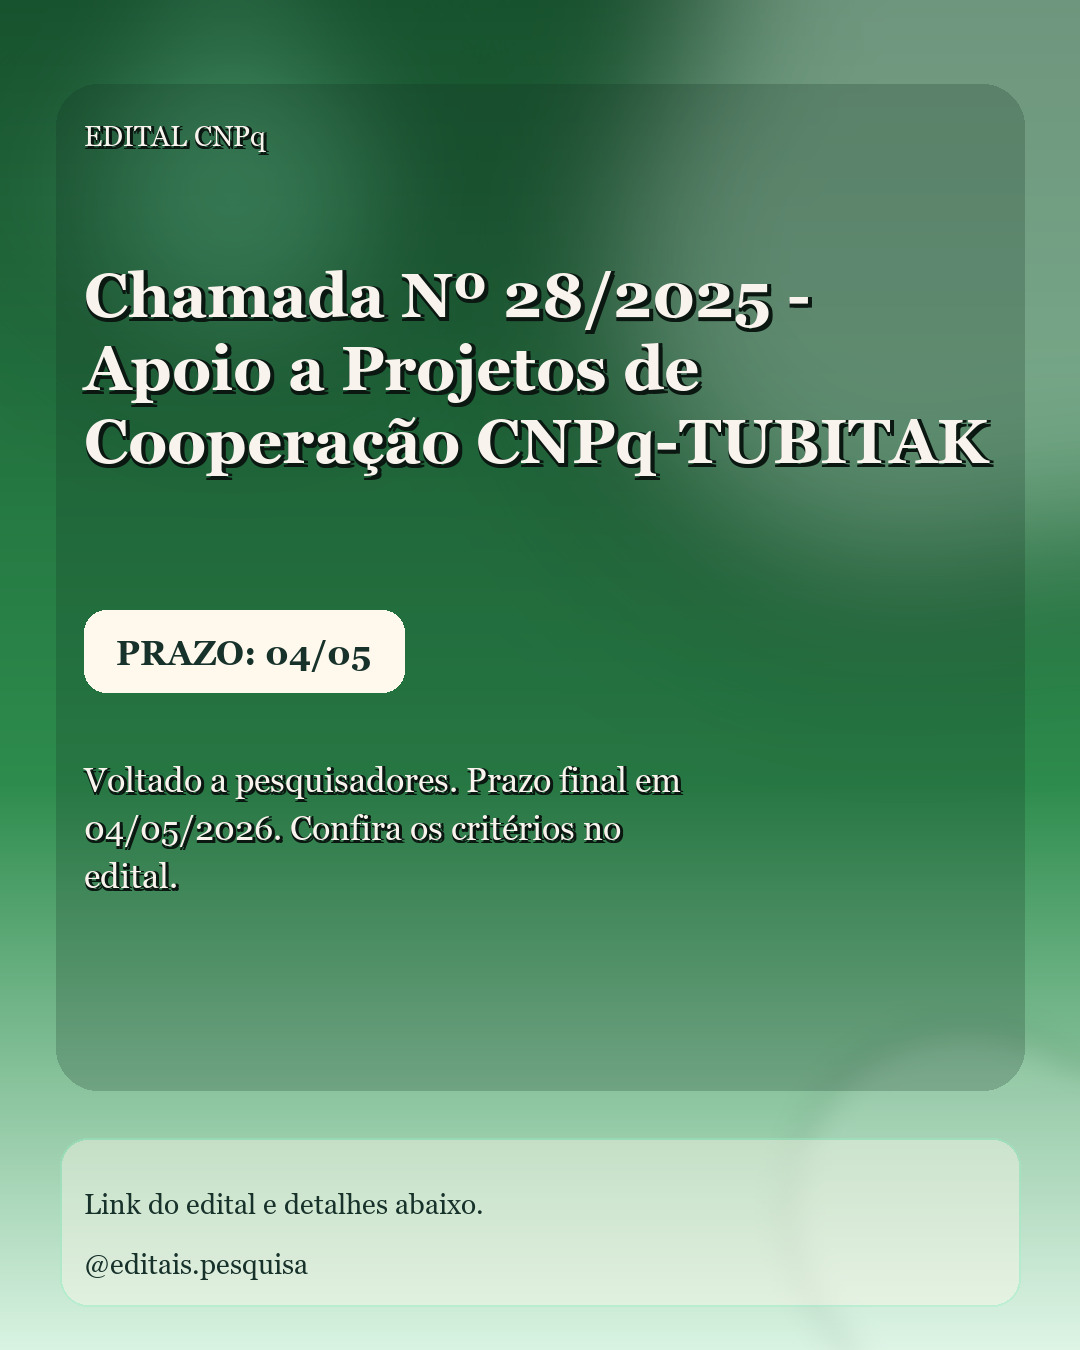
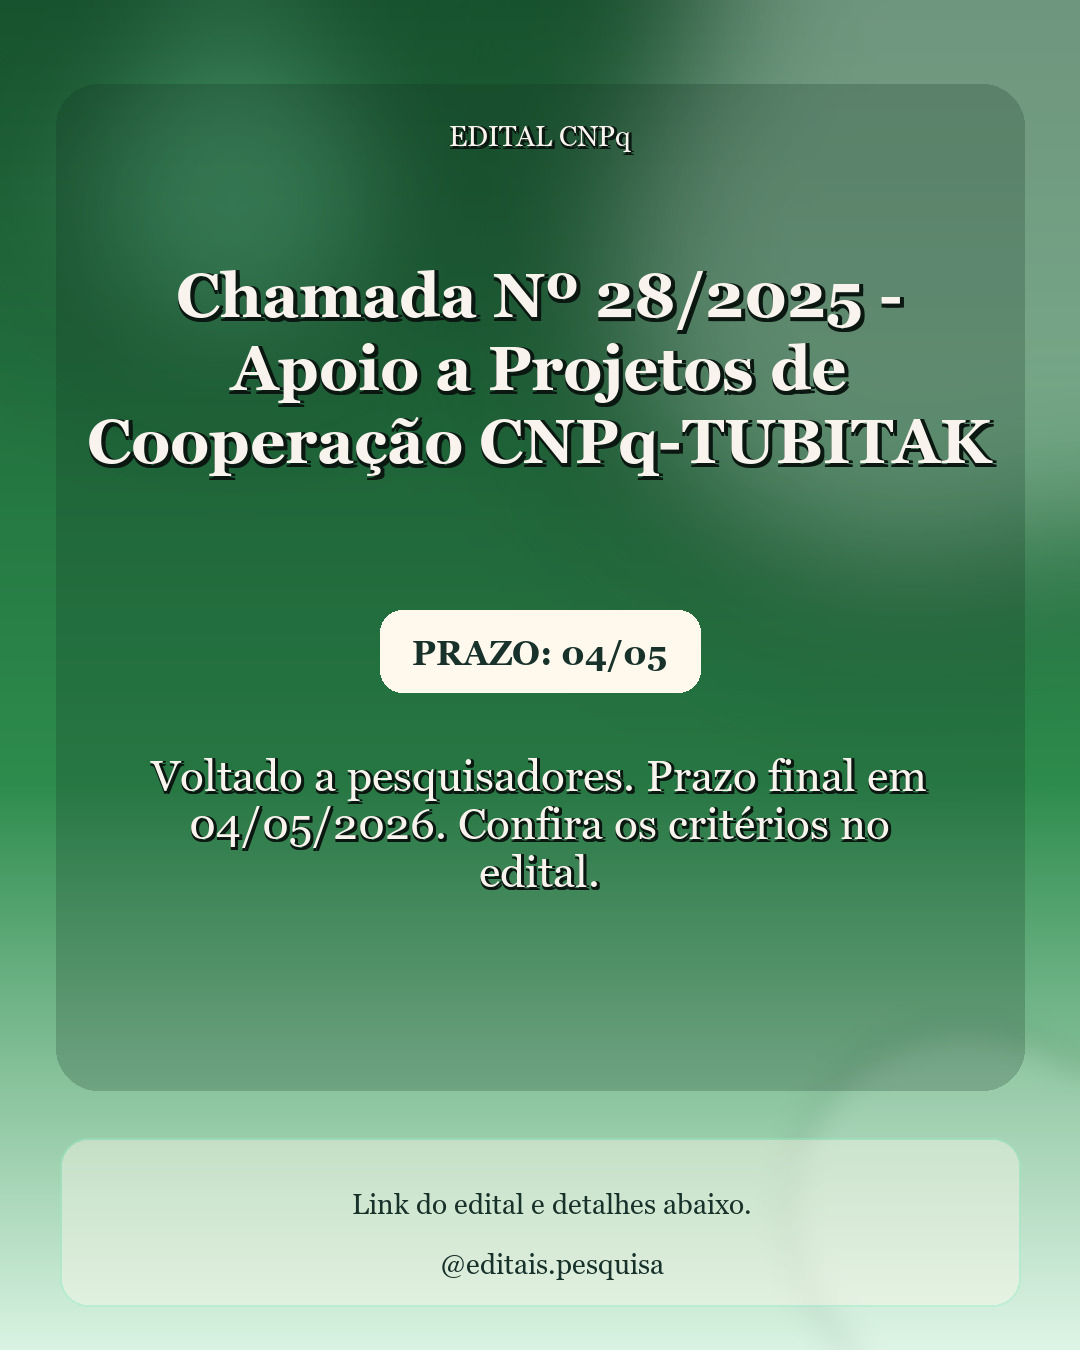
Polish final Instagram feed and story layout

diff --git a/src/services/instagram_service.py b/src/services/instagram_service.py
@@ -311,10 +311,15 @@ class InstagramService:
             "e INSTAGRAM_BUSINESS_ACCOUNT_ID com o Instagram Business Account ID."
         )
 
-    def _build_feed_image(self, edital: Edital) -> Image.Image:
+    def _build_feed_image(
+        self,
+        edital: Edital,
+        include_content_panel: bool = True,
+        center_content: bool = True,
+    ) -> Image.Image:
         palette = self._palette(edital)
         title_text = edital.card_title or edital.titulo
-        summary_lines = self._wrap_text(edital.card_summary or edital.resumo or "Resumo nao informado.", 42, 5)
+        summary_text = edital.card_summary or edital.resumo or "Resumo nao informado."
         header = edital.card_header or f"EDITAL {edital.fonte}"
         deadline = edital.card_deadline or "PRAZO A DEFINIR"
         handle_value = edital.card_handle
@@ -324,55 +329,95 @@ class InstagramService:
         show_footer = bool(footer_note or handle)
 
         image = self._build_background(palette, self.FEED_WIDTH, self.FEED_HEIGHT)
-        image = self._apply_feed_content_panels(image, palette, include_footer=show_footer)
+        image = self._apply_feed_content_panels(
+            image,
+            palette,
+            include_content=include_content_panel,
+            include_footer=show_footer,
+        )
         draw = ImageDraw.Draw(image)
 
         header_font = self._load_font("regular", 28)
         title_lines, title_font = self._fit_title_layout(title_text, max_width=self.FEED_WIDTH - 168, max_lines=3)
-        summary_font = self._load_font("regular", 34)
+        summary_font = self._load_font("regular", 44)
         deadline_font = self._load_font("bold", 34)
         footer_font = self._load_font("regular", 28)
         handle_font = self._load_font("regular", 28)
         light_text = (248, 244, 237)
         dark_text = self._hex_to_rgb(palette["deadline_text"])
 
-        self._draw_text_with_shadow(draw, (84, 120), header, header_font, light_text)
+        summary_width = self.FEED_WIDTH - (260 if center_content else 168)
+        summary_lines = self._wrap_text_to_width(
+            summary_text,
+            summary_font,
+            max_width=summary_width,
+            max_lines=4 if center_content else 5,
+            allow_overflow=False,
+        )
+
+        header_x = 84
+        if center_content:
+            header_x = (self.FEED_WIDTH - self._text_width(header, header_font)) // 2
+        self._draw_text_with_shadow(draw, (header_x, 120), header, header_font, light_text)
 
         y = 260
         for line in title_lines:
-            self._draw_text_with_shadow(draw, (84, y), line, title_font, light_text, shadow_offset=4)
+            line_x = 84
+            if center_content:
+                line_x = (self.FEED_WIDTH - self._text_width(line, title_font)) // 2
+            self._draw_text_with_shadow(draw, (line_x, y), line, title_font, light_text, shadow_offset=4)
             y += self._line_height(title_font, extra=16)
 
-        badge_box = (84, 610, 404, 692)
+        if center_content:
+            badge_width = 320
+            badge_left = (self.FEED_WIDTH - badge_width) // 2
+            badge_box = (badge_left, 610, badge_left + badge_width, 692)
+        else:
+            badge_box = (84, 610, 404, 692)
         draw.rounded_rectangle(badge_box, radius=22, fill=(255, 248, 236))
         deadline_bbox = draw.textbbox((0, 0), deadline, font=deadline_font)
         deadline_y = badge_box[1] + ((badge_box[3] - badge_box[1]) - (deadline_bbox[3] - deadline_bbox[1])) // 2 - 2
-        draw.text((badge_box[0] + 32, deadline_y), deadline, font=deadline_font, fill=dark_text)
+        deadline_x = badge_box[0] + 32
+        if center_content:
+            deadline_x = badge_box[0] + ((badge_box[2] - badge_box[0]) - (deadline_bbox[2] - deadline_bbox[0])) // 2
+        draw.text((deadline_x, deadline_y), deadline, font=deadline_font, fill=dark_text)
 
-        y = 760
+        summary_line_height = self._line_height(summary_font, extra=8)
+        y = 750
         for line in summary_lines:
-            self._draw_text_with_shadow(draw, (84, y), line, summary_font, light_text)
-            y += 48
+            line_x = 84
+            if center_content:
+                line_x = (self.FEED_WIDTH - self._text_width(line, summary_font)) // 2
+            self._draw_text_with_shadow(draw, (line_x, y), line, summary_font, light_text)
+            y += summary_line_height
 
         if footer_note:
-            draw.text((84, 1188), footer_note, font=footer_font, fill=dark_text)
+            footer_x = 84 + ((936 - self._text_width(footer_note, footer_font)) // 2)
+            draw.text((footer_x, 1188), footer_note, font=footer_font, fill=dark_text)
         if handle:
-            draw.text((84, 1248), handle, font=handle_font, fill=dark_text)
+            handle_x = 84 + ((936 - self._text_width(handle, handle_font)) // 2)
+            draw.text((handle_x, 1248), handle, font=handle_font, fill=dark_text)
         return image
 
     def _build_story_image(self, edital: Edital) -> Image.Image:
         palette = self._palette(edital)
         image = self._build_background(palette, self.STORY_WIDTH, self.STORY_HEIGHT)
 
-        card = self._build_feed_image(replace(edital, card_footer_note="", card_handle=""))
+        card = self._build_feed_image(
+            replace(edital, card_footer_note="", card_handle=""),
+            center_content=True,
+        )
         card = self._resize_to_fit(card, max_width=900, max_height=1120)
+        if card.height > 1010:
+            card = card.crop((0, 0, card.width, 1010))
+        card = self._with_rounded_corners(card, radius=52)
         shadow_overlay = Image.new("RGBA", (self.STORY_WIDTH, self.STORY_HEIGHT), (0, 0, 0, 0))
         shadow_overlay = self._apply_blurred_circle(
             shadow_overlay,
             self.STORY_WIDTH,
             self.STORY_HEIGHT,
             color="#0e221d",
-            bbox=(130, 120, 950, 1270),
+            bbox=(130, 120, 950, 1165),
             alpha=72,
             blur_radius=50,
         )
@@ -381,39 +426,82 @@ class InstagramService:
 
         card_x = (self.STORY_WIDTH - card.width) // 2
         card_y = 120
-        image.paste(card, (card_x, card_y))
+        image.paste(card, (card_x, card_y), card)
 
-        callout_box = (72, 1380, 1008, 1760)
+        callout_box = (72, 1216, 1008, 1568)
         draw.rounded_rectangle(callout_box, radius=42, fill=(255, 248, 236))
         draw.rounded_rectangle(callout_box, radius=42, outline=(217, 198, 169), width=3)
 
-        title_font = self._load_font("bold", 58)
+        title_font = self._load_font("bold", 50)
         body_font = self._load_font("regular", 34)
-        handle_font = self._load_font("bold", 36)
+        handle_font = self._load_font("bold", 34)
+        text_color = self._hex_to_rgb(palette["deadline_text"])
+        body_color = (42, 57, 51)
+        cta_color = (39, 90, 69)
 
-        draw.text((120, 1438), "Veja o post do perfil", font=title_font, fill=self._hex_to_rgb(palette["deadline_text"]))
+        inner_padding_x = 56
+        body_width = callout_box[2] - callout_box[0] - (inner_padding_x * 2)
+        title_text = "Veja o post do perfil"
+        cta_text = "Abra o post para acessar o edital."
+        story_text = (
+            "O link do edital e os detalhes completos est\u00e3o na legenda "
+            "do post do perfil @editais.pesquisa."
+        )
+        story_lines = self._wrap_text_to_width(
+            story_text,
+            body_font,
+            max_width=body_width,
+            max_lines=4,
+            allow_overflow=False,
+        )
 
-        story_lines = [
-            "O link do edital e os detalhes",
-            "completos estão na legenda do",
-            "post do perfil @editais.pesquisa.",
-        ]
-        text_y = 1532
+        title_height = self._line_height(title_font)
+        body_line_height = self._line_height(body_font, extra=10)
+        body_height = max(0, (len(story_lines) * body_line_height) - 10)
+        cta_height = self._line_height(handle_font)
+        gap_title_body = 24
+        gap_body_cta = 24
+        block_height = title_height + gap_title_body + body_height + gap_body_cta + cta_height
+        start_y = callout_box[1] + max(32, ((callout_box[3] - callout_box[1]) - block_height) // 2)
+
+        title_x = callout_box[0] + ((callout_box[2] - callout_box[0]) - self._text_width(title_text, title_font)) // 2
+        draw.text((title_x, start_y), title_text, font=title_font, fill=text_color)
+
+        body_y = start_y + title_height + gap_title_body
+        text_y = body_y
         for line in story_lines:
-            draw.text((120, text_y), line, font=body_font, fill=(60, 52, 45))
-            text_y += 44
+            line_x = callout_box[0] + ((callout_box[2] - callout_box[0]) - self._text_width(line, body_font)) // 2
+            draw.text((line_x, text_y), line, font=body_font, fill=body_color)
+            text_y += body_line_height
 
-        draw.text((120, 1672), "Abra o post para acessar o edital.", font=handle_font, fill=(42, 74, 64))
+        cta_y = text_y + gap_body_cta - 10
+        cta_x = callout_box[0] + ((callout_box[2] - callout_box[0]) - self._text_width(cta_text, handle_font)) // 2
+        draw.text((cta_x, cta_y), cta_text, font=handle_font, fill=cta_color)
         return image
 
-    def _apply_feed_content_panels(self, image: Image.Image, palette: dict[str, str], include_footer: bool = True) -> Image.Image:
+    def _apply_feed_content_panels(
+        self,
+        image: Image.Image,
+        palette: dict[str, str],
+        include_content: bool = True,
+        include_footer: bool = True,
+    ) -> Image.Image:
         overlay = Image.new("RGBA", image.size, (0, 0, 0, 0))
         draw = ImageDraw.Draw(overlay)
-        draw.rounded_rectangle((56, 84, 1024, 1090), radius=42, fill=(15, 44, 30, 56))
+        if include_content:
+            draw.rounded_rectangle((56, 84, 1024, 1090), radius=42, fill=(15, 44, 30, 56))
         if include_footer:
             draw.rounded_rectangle((60, 1138, 1020, 1306), radius=28, fill=(255, 248, 236, 108))
             draw.rounded_rectangle((60, 1138, 1020, 1306), radius=28, outline=self._hex_to_rgb(palette["accent"]) + (92,), width=2)
         return Image.alpha_composite(image.convert("RGBA"), overlay).convert("RGB")
+
+    def _with_rounded_corners(self, image: Image.Image, radius: int) -> Image.Image:
+        rounded = image.convert("RGBA")
+        mask = Image.new("L", rounded.size, 0)
+        mask_draw = ImageDraw.Draw(mask)
+        mask_draw.rounded_rectangle((0, 0, rounded.width, rounded.height), radius=radius, fill=255)
+        rounded.putalpha(mask)
+        return rounded
 
     def _build_background(self, palette: dict[str, str], width: int, height: int) -> Image.Image:
         image = Image.new("RGB", (width, height))
@@ -711,3 +799,4 @@ class InstagramService:
             lines.append(current)
 
         return lines[:max_lines]
+
